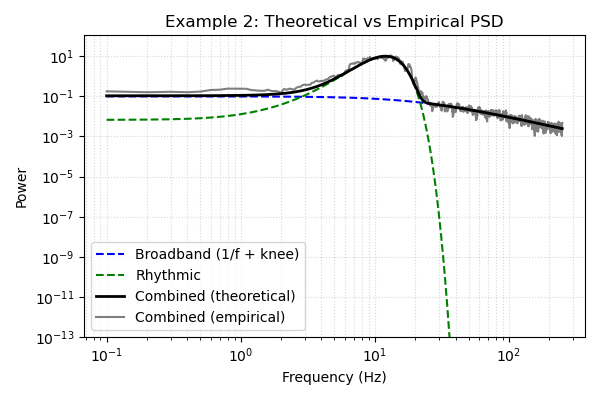
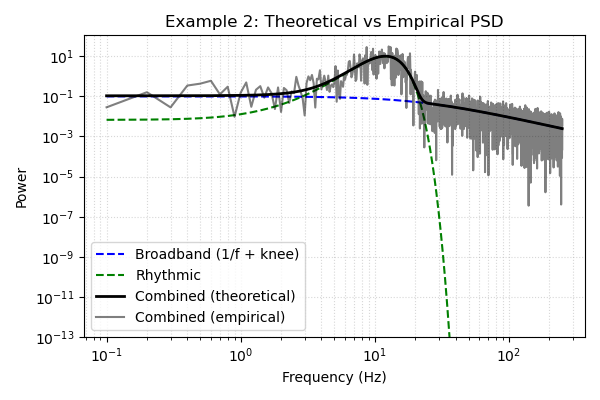
update spectral analysis to do tbwp == 1

Changed region(s): [[0.18, 0.12, 0.96, 0.51]]

diff --git a/spectral_decomposition/__init__.py b/spectral_decomposition/__init__.py
@@ -91,7 +91,8 @@ def spectrum(
         m = Multitaper(
             time_series=signal,
             sampling_frequency=sampling_rate,
-            time_halfbandwidth_product=6,
+            n_tapers = 1,
+            time_halfbandwidth_product=1,
             n_fft_samples=len(time_data)  
         )
         c = Connectivity.from_multitaper(m)
